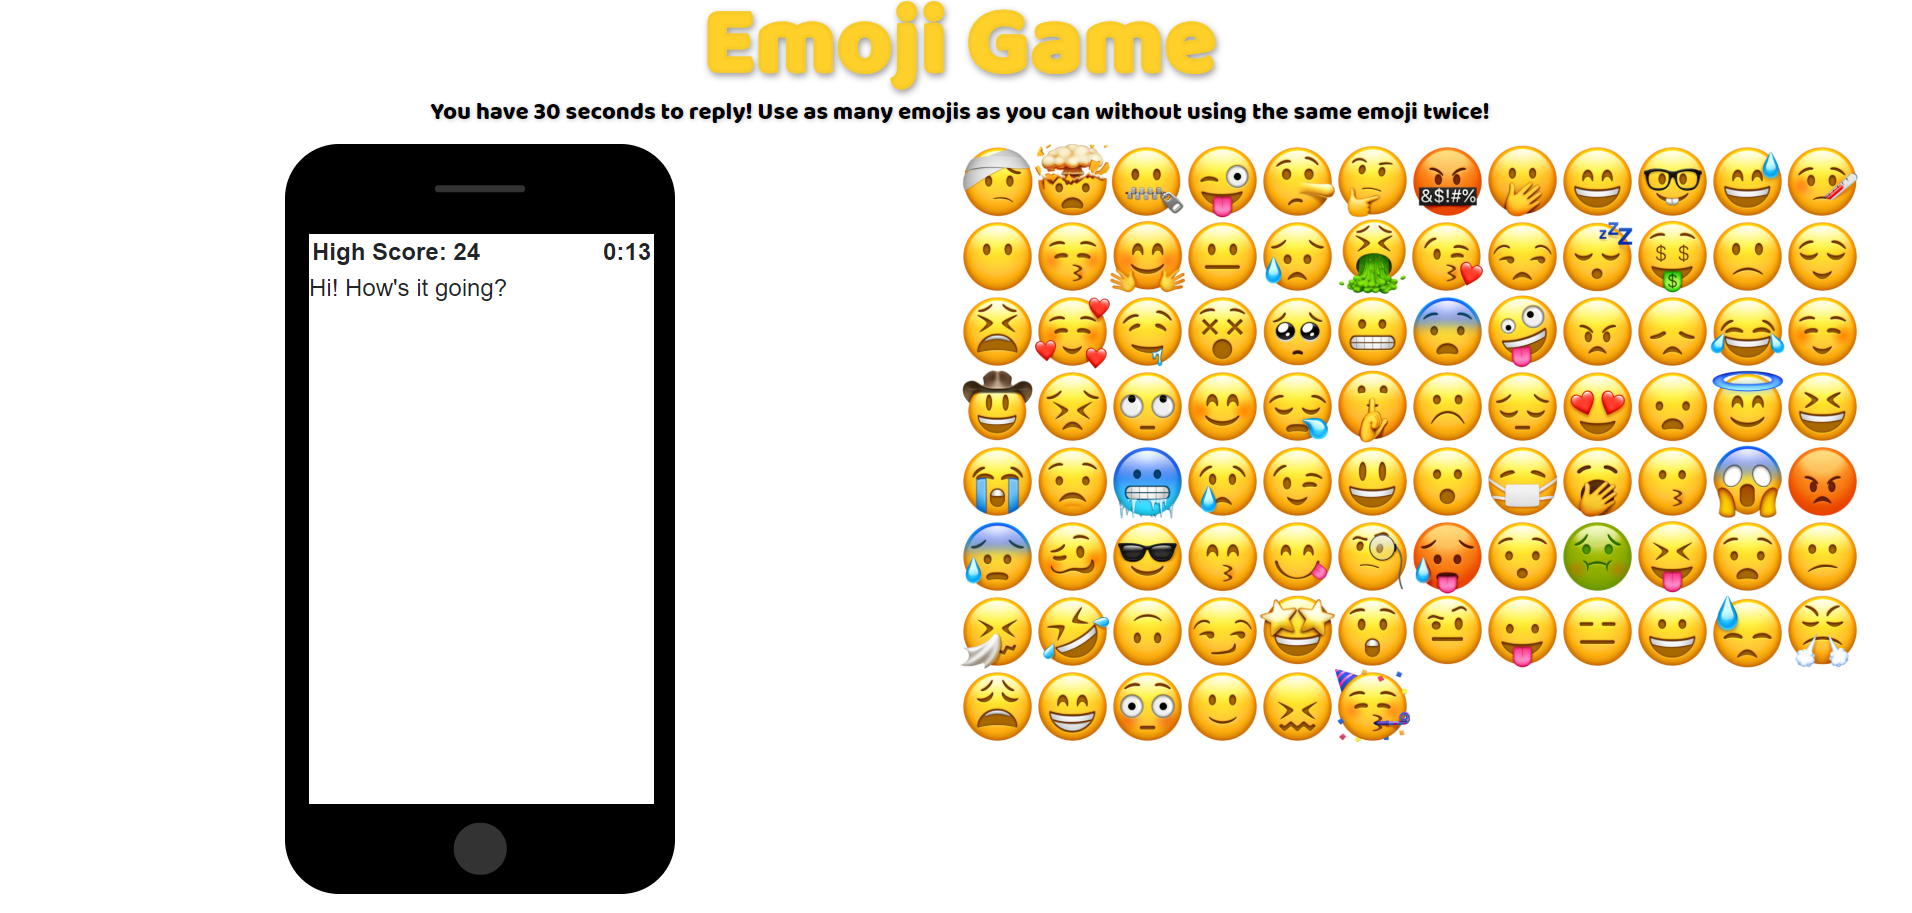
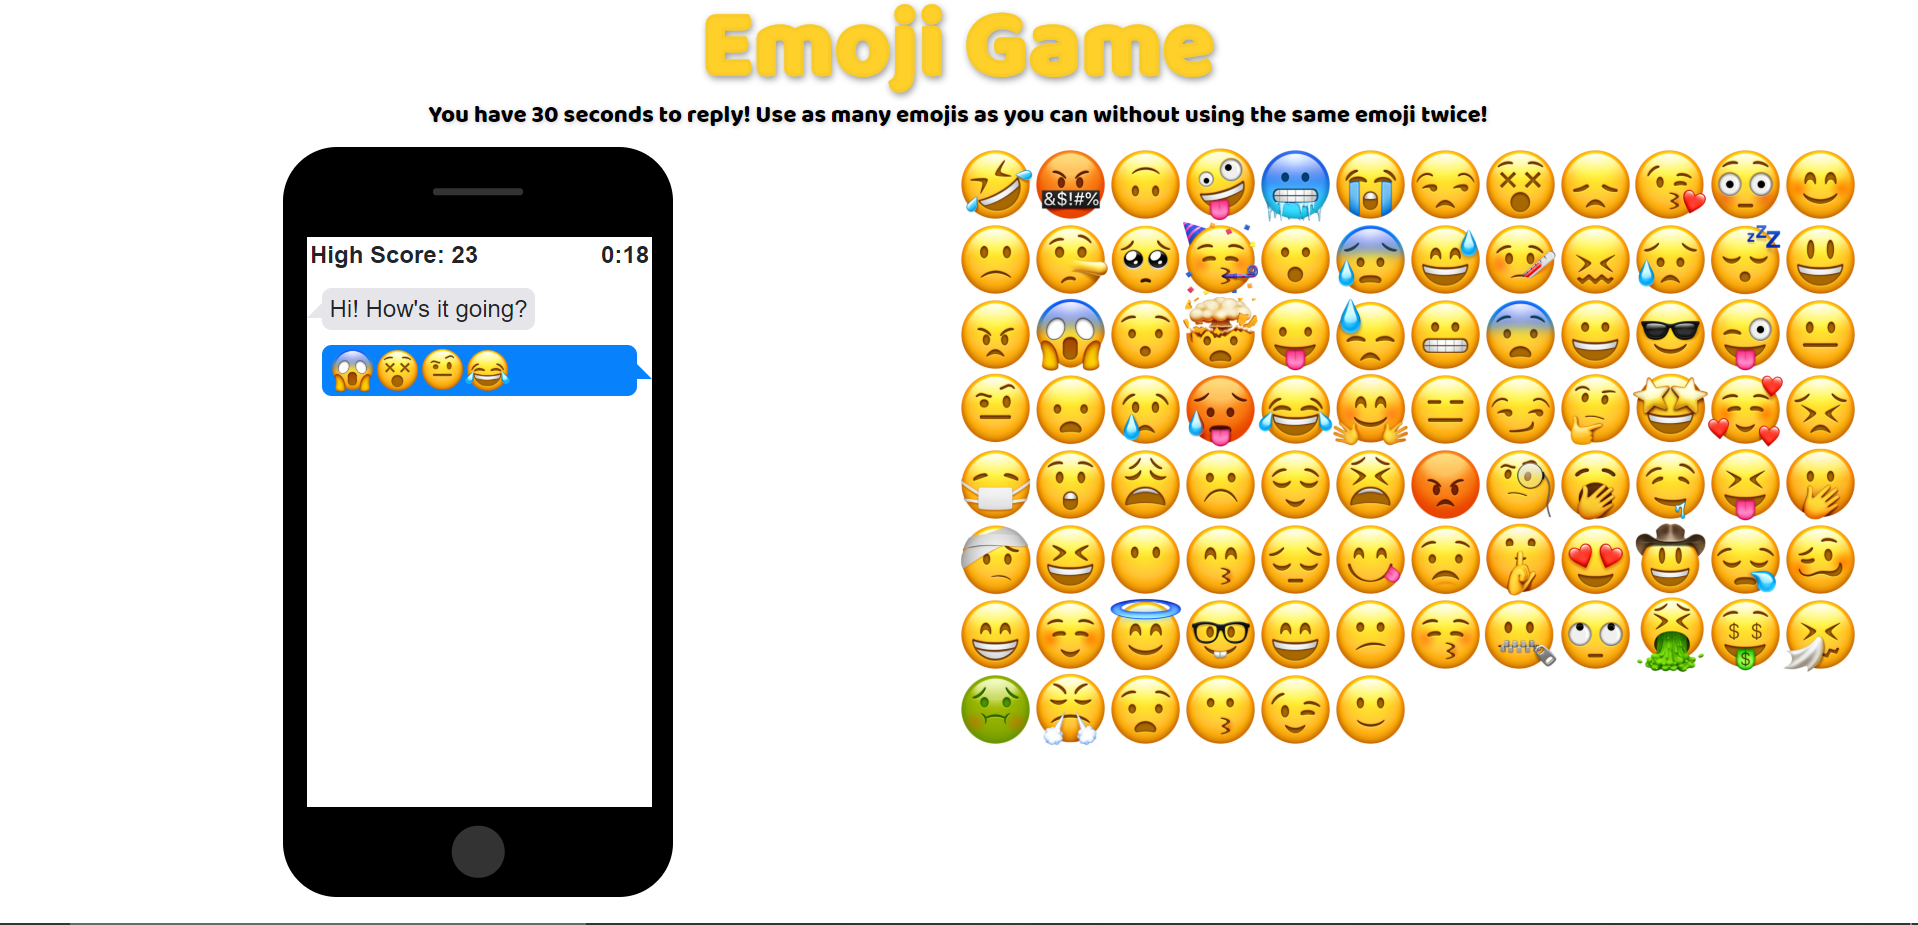
emojis now display on phone

Changed region(s): [[0.216, 0.0, 0.9874, 0.828], [0.0, 0.2453, 1.0, 1.0]]

diff --git a/src/components/Phone/index.js b/src/components/Phone/index.js
@@ -2,22 +2,26 @@ import React, { Component } from "react";
 import Countdown from "react-countdown-now";
 import "./style.css";
 class Phone extends Component {
-  constructor(props) {
-    super(props);
-  }
-
   render() {
-    const Completionist = () => <span>Times Up!</span>;
+    const time = ({ seconds, completed }) =>
+      completed ? <span>Times Up!</span> : <span>0:{seconds}</span>;
 
-    const renderer = ({ seconds, completed }) => {
-      if (completed) {
-        console.log(completed);
-        // Render a completed state
-        return <Completionist />;
+    const Emojis = () => {
+      if (this.props.emojis.length) {
+        return (
+          <div className="reply-speech-bubble">
+            {this.props.emojis.map(emoji => (
+              <img
+                src={emoji.image}
+                alt={emoji.name}
+                id={emoji.id}
+                width="30px"
+              />
+            ))}
+          </div>
+        );
       } else {
-        console.log(completed);
-        // Render a countdown
-        return <span>0:{seconds}</span>;
+        return <div></div>;
       }
     };
 
@@ -26,11 +30,11 @@ class Phone extends Component {
         <div className="content">
           <div className="high-score">High Score: {this.props.highScore}</div>
           <div className="countdown">
-            <Countdown date={Date.now() + 30000} renderer={renderer} />
+            <Countdown date={Date.now() + 30000} renderer={time} />
           </div>
           <br />
           <div className="speech-bubble">Hi! How's it going?</div>
-          {/* <div className="reply-speech-bubble">...</div> */}
+          <Emojis />
         </div>
       </div>
     );

diff --git a/src/App.js b/src/App.js
@@ -8,7 +8,8 @@ class App extends Component {
   state = {
     emojis,
     count: 0,
-    highScore: 0
+    highScore: 0,
+    phoneEmojis: []
   };
 
   //Emoji onClick event
@@ -27,8 +28,7 @@ class App extends Component {
         if (emoji.clicked) {
           doubleClicked = true;
           alert("You already used that emoji!");
-        } else {
-          console.log("Clicked on emoji");
+          this.state.phoneEmojis = [];
         }
         emoji.clicked = true;
         update.count++;
@@ -36,6 +36,13 @@ class App extends Component {
           update.highScore = update.count;
         }
       }
+      this.setState({
+        phoneEmojis: this.state.phoneEmojis.concat({
+          image: emoji.image,
+          name: emoji.name,
+          id: emoji.id
+        })
+      });
     });
 
     // reset score and clicked state in all cards if a card was clicked twice
@@ -71,6 +78,7 @@ class App extends Component {
         <div className="phone-container">
           <Phone
             highScore={this.state.highScore}
+            emojis={this.state.phoneEmojis}
             // won={
             //   this.state.count &&
             //   !(this.state.count % this.state.emojis.length)
@@ -79,7 +87,7 @@ class App extends Component {
         </div>
         <div className="emoji-container">
           {this.state.emojis.map(emoji => (
-            <div className="emoji-btn">
+            <div className="emoji-btn" key={emoji.id}>
               <Emoji
                 id={emoji.id}
                 key={emoji.id}

diff --git a/src/components/Phone/style.css b/src/components/Phone/style.css
@@ -58,3 +58,50 @@
   margin-right: 2px;
   font-weight: bold;
 }
+
+.speech-bubble {
+  position: relative;
+  width: max-content;
+  background: #e5e5ea;
+  border-radius: 0.4em;
+  margin: 10px 10px 0 10px;
+  padding: 2px 5px;
+}
+
+.speech-bubble:after {
+  content: "";
+  position: absolute;
+  left: 0;
+  top: 50%;
+  width: 0;
+  height: 0;
+  border: 10px solid transparent;
+  border-right-color: #e5e5ea;
+  border-left: 0;
+  border-bottom: 0;
+  margin-top: -4px;
+  margin-left: -10px;
+}
+
+.reply-speech-bubble {
+  position: relative;
+  background: #0881fc;
+  border-radius: 0.4em;
+  margin: 10px 10px 0 10px;
+  padding: 2px 5px;
+}
+
+.reply-speech-bubble:after {
+  content: "";
+  position: absolute;
+  right: 0;
+  top: 50%;
+  width: 0;
+  height: 0;
+  border: 10px solid transparent;
+  border-left-color: #0881fc;
+  border-right: 0;
+  border-bottom: 0;
+  margin-top: -4px;
+  margin-right: -10px;
+}
